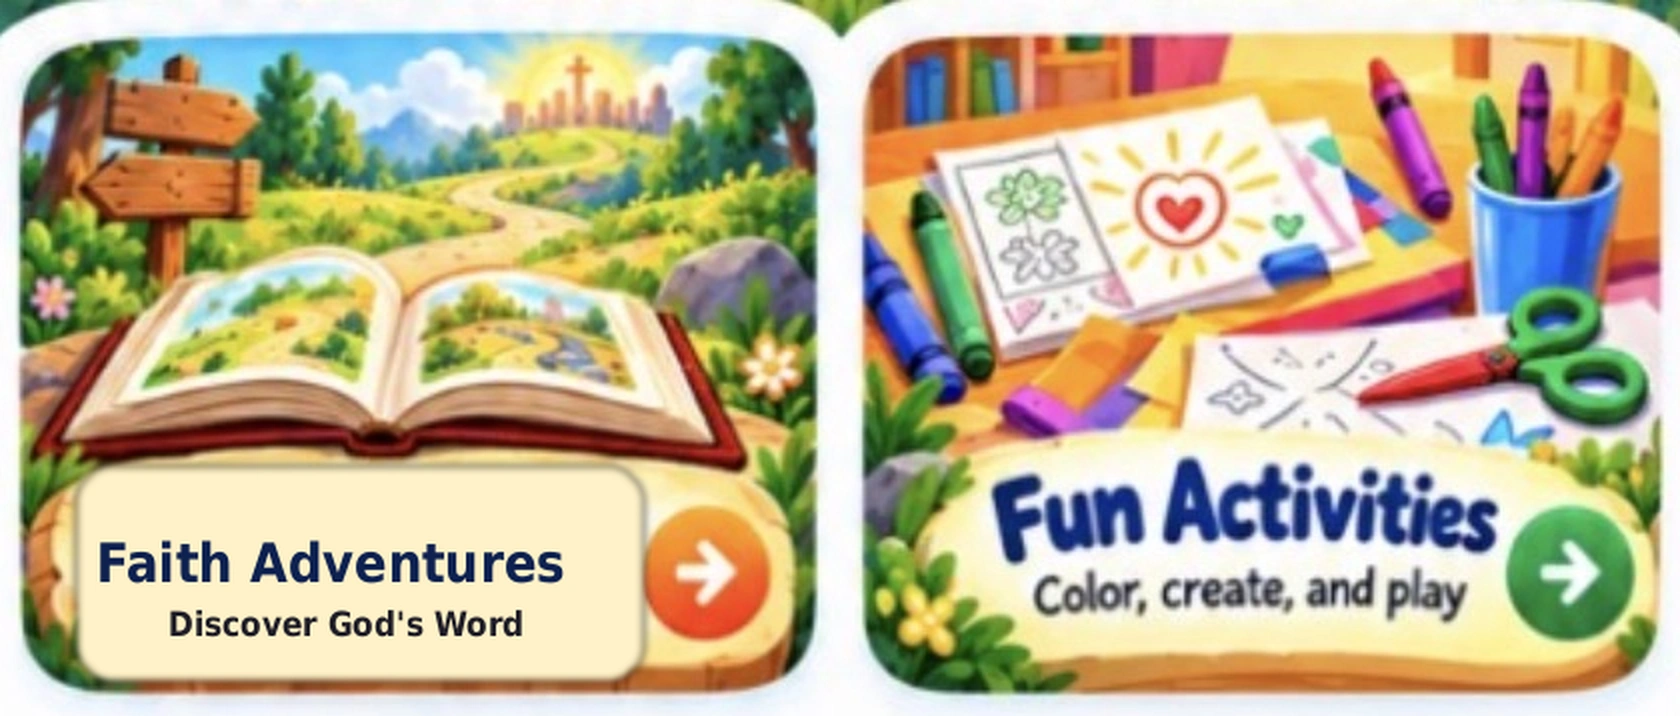
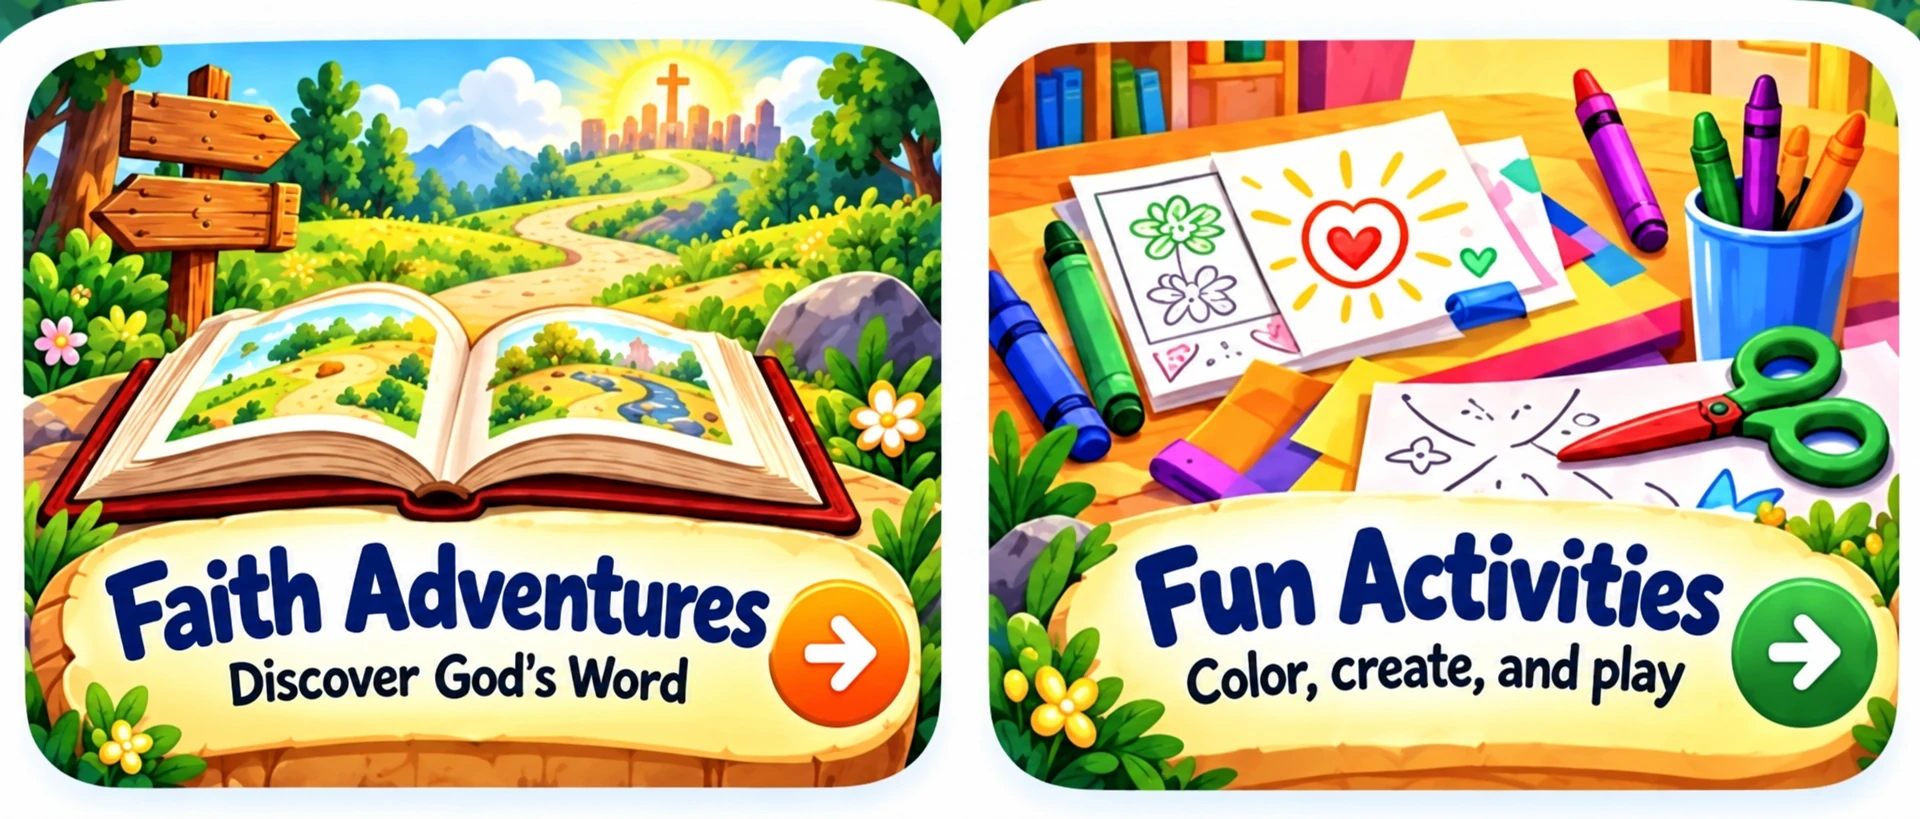
Replace Little Lights cards with approved artwork

diff --git a/app/littlelights/page.tsx b/app/littlelights/page.tsx
@@ -26,8 +26,8 @@ export default function LittleLightsPage() {
         <Image
           src="/images/littlelights/faith-adventures-activities.webp"
           alt="Faith Adventures: Discover God's Word, with an open Bible and a winding path. Fun Activities: Color, create, and play, with coloring pages, crayons, and craft supplies."
-          width={1680}
-          height={716}
+          width={1920}
+          height={819}
           unoptimized
           className={styles.discoveryArtwork}
         />
